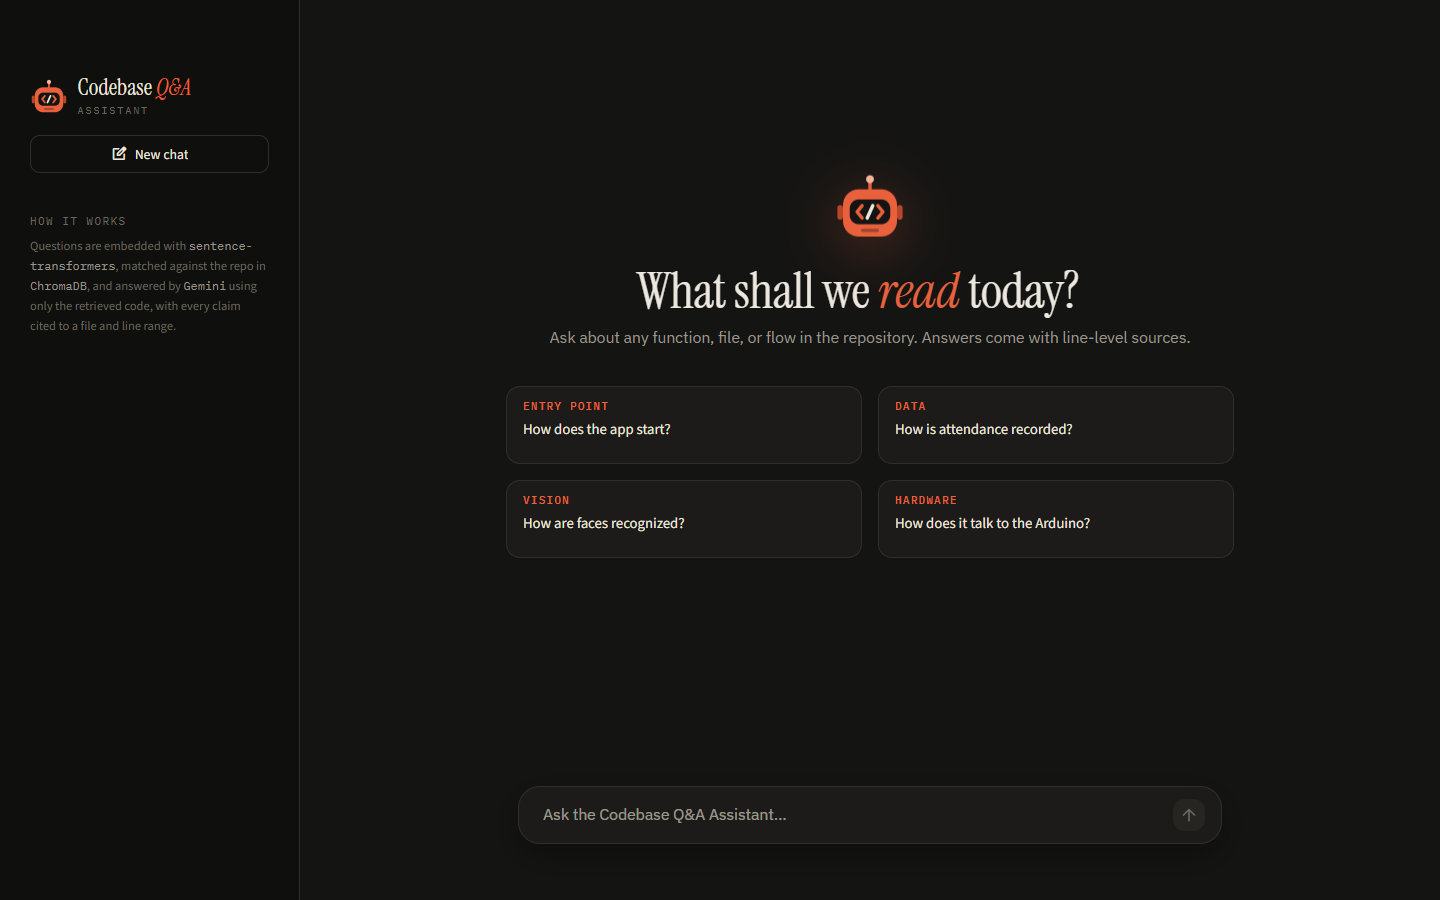
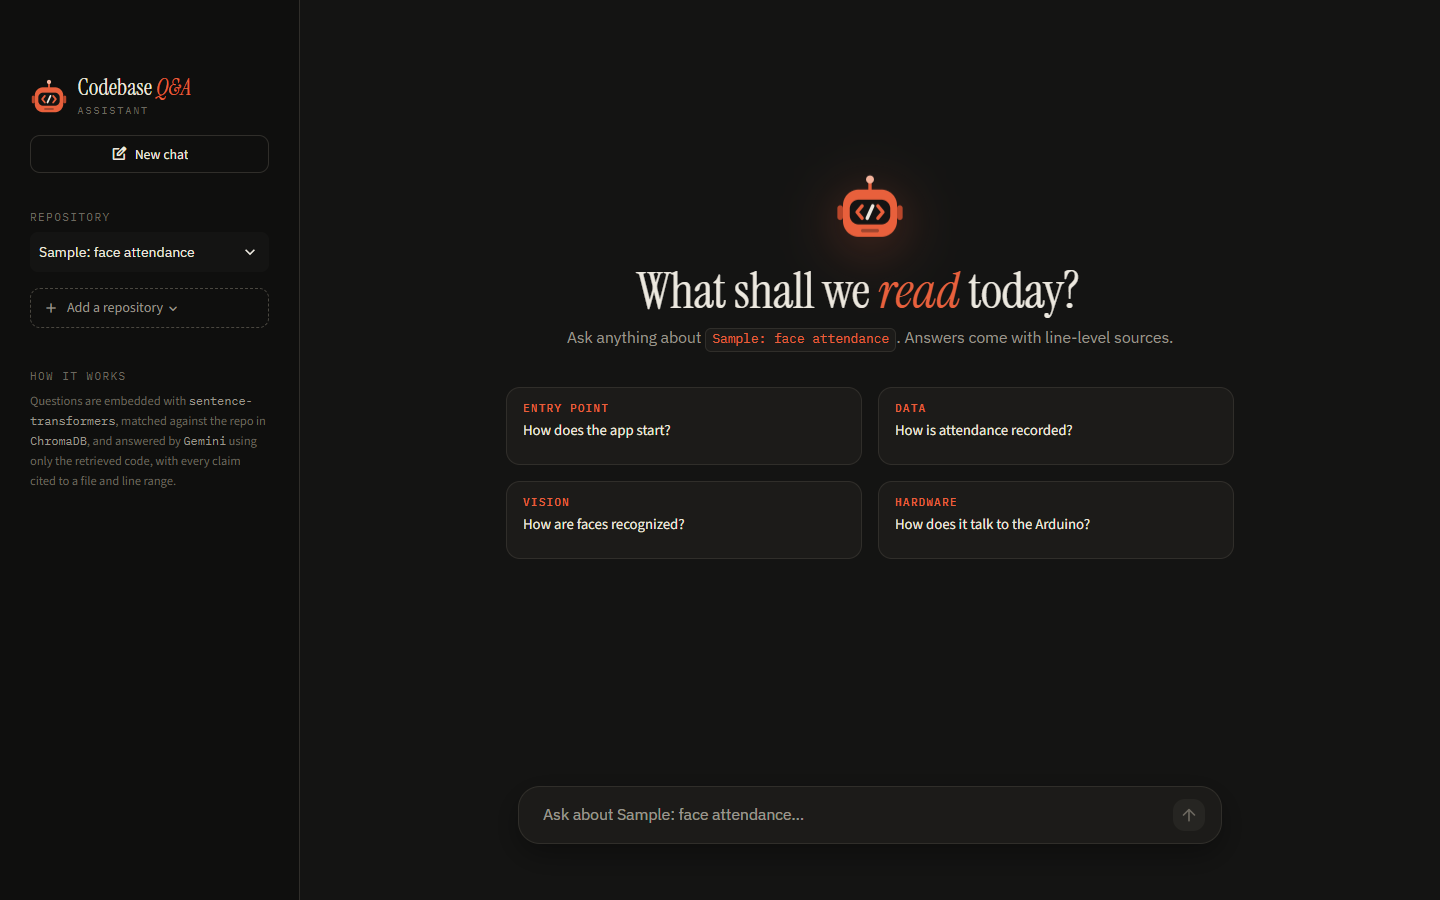
Let users add their own Python repos; update README

diff --git a/README.md b/README.md
@@ -10,6 +10,8 @@ Built as a portfolio project to demonstrate practical Retrieval-Augmented Genera
  
 New developers joining an unfamiliar codebase spend significant time just understanding how things fit together. This tool lets you ask plain-English questions — "how does X work," "what happens if Y fails" — and get an answer sourced directly from the code, not from a model's guesswork. Every answer includes the exact file and line numbers it came from, so you can verify it in seconds.
  
+It works on **any Python repository**: paste a public GitHub link or upload a `.zip` in the app, and it's indexed and ready to question in seconds.
+ 
 ## Demo
  
 ![Codebase Q&A Assistant chat interface](assets/screenshot.png)
@@ -19,14 +21,26 @@ Ask a question like:
  
 And get back a grounded, multi-file answer with citations like `simple_facerec.py:82-96` and `attendance.py:36-46` — pulled from the actual source, not memorized or hallucinated.
  
+## Use it on your own repo
+ 
+1. Open the app and click **Add a repository** in the sidebar (or use the form on the welcome screen).
+2. Either paste a public GitHub link (e.g. `https://github.com/owner/repo`, or a `/tree/<branch>` link) or upload your project as a `.zip`.
+3. The app downloads the code, extracts only the `.py` files, chunks and embeds them, and switches to the new repo. Most repos take a few seconds.
+4. Ask away. Use the **Repository** picker to switch between repos; each repo gets its own chats.
+ 
+No repo handy? Click **Try the sample repo** to load [face-recognition-attendance](https://github.com/daniyalahmad45/face-recognition-attendance), the repo used in the evaluation below.
+ 
 ## How it works
  
-1. **Ingest** — the target repository is walked and every `.py` file is parsed with Python's `ast` module. Instead of splitting code into arbitrary fixed-size text blocks (the naive RAG approach), chunks are extracted at function/class granularity, each carrying its exact file path and line range.
+1. **Ingest** — the target repository (added from the UI, or cloned locally) is walked and every `.py` file is parsed with Python's `ast` module. Instead of splitting code into arbitrary fixed-size text blocks (the naive RAG approach), chunks are extracted at function/class granularity, each carrying its exact file path and line range.
 2. **Embed** — each chunk is embedded locally using `sentence-transformers` (`all-MiniLM-L6-v2`) — no API cost, runs entirely on-device.
-3. **Store** — embeddings are stored in a persistent ChromaDB vector database.
+3. **Store** — embeddings are stored in a persistent ChromaDB vector database, with a separate collection per repository.
 4. **Retrieve** — on a question, the query is embedded and ChromaDB returns the most semantically similar code chunks.
 5. **Generate** — the retrieved chunks are passed to Gemini along with the question, with an explicit instruction to answer *only* from the given context and cite file/line for every claim. If the context doesn't contain the answer, the model is instructed to say so rather than guess.
 ```
+GitHub link / .zip → repo_loader.py (download + unpack .py files)
+                        │
+                        ▼
 Repo → ingest.py (AST chunking) → embed_store.py (embeddings + ChromaDB)
                                                         │
 User question → retrieve.py (semantic search) ←────────┘
@@ -62,6 +76,9 @@ Rather than claim an accuracy number with no evidence, this project includes a t
 ## Known limitations
  
 - **Python only.** The AST-based chunker currently only supports `.py` files.
+- **Public GitHub repos only.** Private repos and other hosts (GitLab, Bitbucket) aren't supported via link, but any project can still be uploaded as a `.zip`.
+- **Size limits.** To keep a shared deployment stable, repos are capped at a 50 MB download, 1,500 Python files and 4,000 code chunks.
+- **Temporary storage on the hosted demo.** Free hosting resets the disk when the app restarts or sleeps, so added repos may need to be re-added later. Repos a visitor adds are visible only in their own session, and only the 20 most recent are kept.
 - **Free-tier API limits.** The Gemini free tier has both per-minute and per-day request caps, which can throttle heavy usage; the code includes retry/backoff logic to handle transient failures gracefully.
 **Fixed during development:** the initial version only chunked at function/class granularity, missing top-level imports and constants — the eval caught this when a question about the testing framework couldn't be answered with certainty. `ingest.py` was updated to also extract a "module level" chunk per file, capturing imports and top-level code so this class of question is now answerable.
  
@@ -82,21 +99,23 @@ pip install -r requirements.txt
 # add your Gemini API key (free at https://aistudio.google.com/apikey)
 echo GEMINI_API_KEY=your_key_here > .env
  
-# clone the repo you want to ask questions about
-git clone <target-repo-url> target_repo
+# run the app, then add a repo from the sidebar (GitHub link or .zip)
+streamlit run app.py
+```
  
-# build the index
+Optionally, you can pre-build an index from the command line instead (this is what the evaluation uses):
+ 
+```bash
+git clone <target-repo-url> target_repo
 python ingest.py
 python embed_store.py
- 
-# run the app
-streamlit run app.py
 ```
  
 ## Project structure
  
 ```
-ingest.py        # AST-based code chunking
+repo_loader.py    # downloads/unpacks user-added repos and indexes them
+ingest.py         # AST-based code chunking
 embed_store.py    # embeddings + ChromaDB storage
 retrieve.py       # semantic search
 generate.py       # grounded generation with citations
